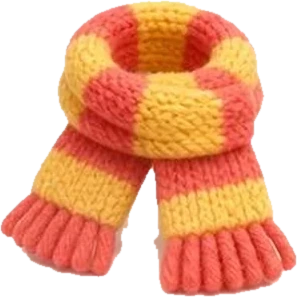
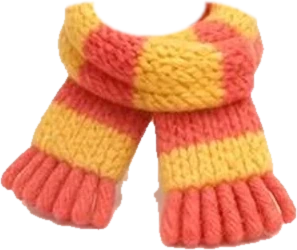
L'écharpe s'enroule autour du cou
Vue d'en haut, l'anneau et son trou faisaient un beignet posé sur la poitrine :
on retire l'arrière de l'anneau, le devant remonte le long du cou, le creux se cale sous le menton.

Claude-Session: https://claude.ai/code/session_0124BHnt6GoRDtWSNdmub5vP

diff --git a/src/lib/persos.ts b/src/lib/persos.ts
@@ -168,7 +168,7 @@ export function nearest(look: Look): Perso {
 
 /** Les accessoires de la boutique, posés sur la figurine : largeur et position (fractions de la toile). */
 export type AccPlace = { w: number; x: number; y: number; anchor: 'bottom' | 'center' | 'top'; ar: number }
-const AR: Record<string, number> = { bonnet: 1.062, casquette: 0.802, paille: 0.7, fleurs: 0.361, echarpe: 1, couronne: 1.017, noeud: 0.604 }
+const AR: Record<string, number> = { bonnet: 1.062, casquette: 0.802, paille: 0.7, fleurs: 0.361, echarpe: 0.842, couronne: 1.017, noeud: 0.604 }
 
 export function accPlace(p: Perso, acc: string): AccPlace | null {
   const [t, h, x, c] = p.m
@@ -196,9 +196,12 @@ export function accPlace(p: Perso, acc: string): AccPlace | null {
       return { w: Math.min(c * 0.55, hw * 0.5), x: ex, y: t + (ey - t) * 0.3, anchor: 'bottom', ar }
     case 'noeud':
       return { w: hw * 0.42, x: x + c * 0.36, y: t + h * 0.2, anchor: 'center', ar }
-    // l'écharpe : la boucle juste sous le menton, les pans sur la poitrine
-    case 'echarpe':
-      return { w: d * 2.15, x: ex, y: chin - dy * 0.12, anchor: 'top', ar }
+    // l'écharpe : le creux du tour de cou juste sous le menton (il est à 36/250 du haut de l'image),
+    // les côtés remontent le long du cou, les pans tombent sur la poitrine
+    case 'echarpe': {
+      const w = d * 2.6
+      return { w, x: ex, y: chin + dy * 0.04 - ((w * ar) / R) * (36 / 250), anchor: 'top', ar }
+    }
     default:
       // les lunettes de soleil se dessinent avec le visage (voir FaceExtras)
       return null

diff --git a/scripts/accessoires_ombre.py b/scripts/accessoires_ombre.py
@@ -5,7 +5,7 @@ sous les lunettes, sous le chapeau, entre les pans de l'écharpe…
 On enlève les pixels gris (peu colorés, assez clairs) reliés au fond transparent. Le pompon du bonnet
 est protégé ; la couronne de fleurs ne garde que son arc de devant.
 À lancer une seule fois, sur les images d'origine (git show fdfa56f:public/art/persos/acc-*.webp).
-Usage : python3 scripts/accessoires_ombre.py [dossier_sortie]
+Usage : python3 scripts/accessoires_ombre.py [dossier_origine] [dossier_sortie] [noms…]
 """
 import sys
 from pathlib import Path
@@ -30,6 +30,18 @@ def nettoie(nom: str, im: Image.Image) -> Image.Image:
     H = a.shape[0]
     if nom == 'bonnet':
         gris[: int(H * 0.4)] = False  # le pompon
+    if nom == 'echarpe':
+        # l'écharpe était vue d'en haut : un anneau dont on voyait le trou, comme un beignet posé sur
+        # la poitrine. On retire l'arrière de l'anneau et son ouverture : il reste le devant enroulé,
+        # qui remonte un peu de chaque côté du cou, et les deux pans.
+        yy, xx = np.mgrid[0:H, 0 : a.shape[1]]
+        cx, cy, ra, rb = 152, 50, 56, 34  # l'ouverture de l'anneau
+        trou = ((xx - cx) / ra) ** 2 + ((yy - cy) / rb) ** 2 < 1
+        cote = np.abs(xx - cx) - ra
+        dos = (yy < cy + 16 * np.clip(cote / 50, 0, None) ** 2) & ~((yy >= cy) & (cote < 0))
+        coupe = np.where(trou | dos, 0, 255).astype(np.uint8)
+        coupe = np.array(Image.fromarray(coupe).filter(ImageFilter.GaussianBlur(1.2)))
+        al = np.minimum(al, coupe)
     if nom == 'fleurs':
         # les pétales blancs des pâquerettes : clairs et tout près d'un cœur jaune ou d'une feuille
         colore = (sat > 0.35) & ~vide
@@ -59,9 +71,12 @@ def nettoie(nom: str, im: Image.Image) -> Image.Image:
 
 
 if __name__ == '__main__':
-    sortie = Path(sys.argv[1]) if len(sys.argv) > 1 else DOSSIER
+    # python3 scripts/accessoires_ombre.py [dossier_origine] [dossier_sortie] [noms…]
+    source = Path(sys.argv[1]) if len(sys.argv) > 1 else DOSSIER
+    sortie = Path(sys.argv[2]) if len(sys.argv) > 2 else DOSSIER
+    noms = sys.argv[3:] or NOMS
     sortie.mkdir(parents=True, exist_ok=True)
-    for nom in NOMS:
-        f = DOSSIER / f'acc-{nom}.webp'
+    for nom in noms:
+        f = source / f'acc-{nom}.webp'
         nettoie(nom, Image.open(f)).save(sortie / f.name, quality=92, method=6)
         print('propre :', f.name)
